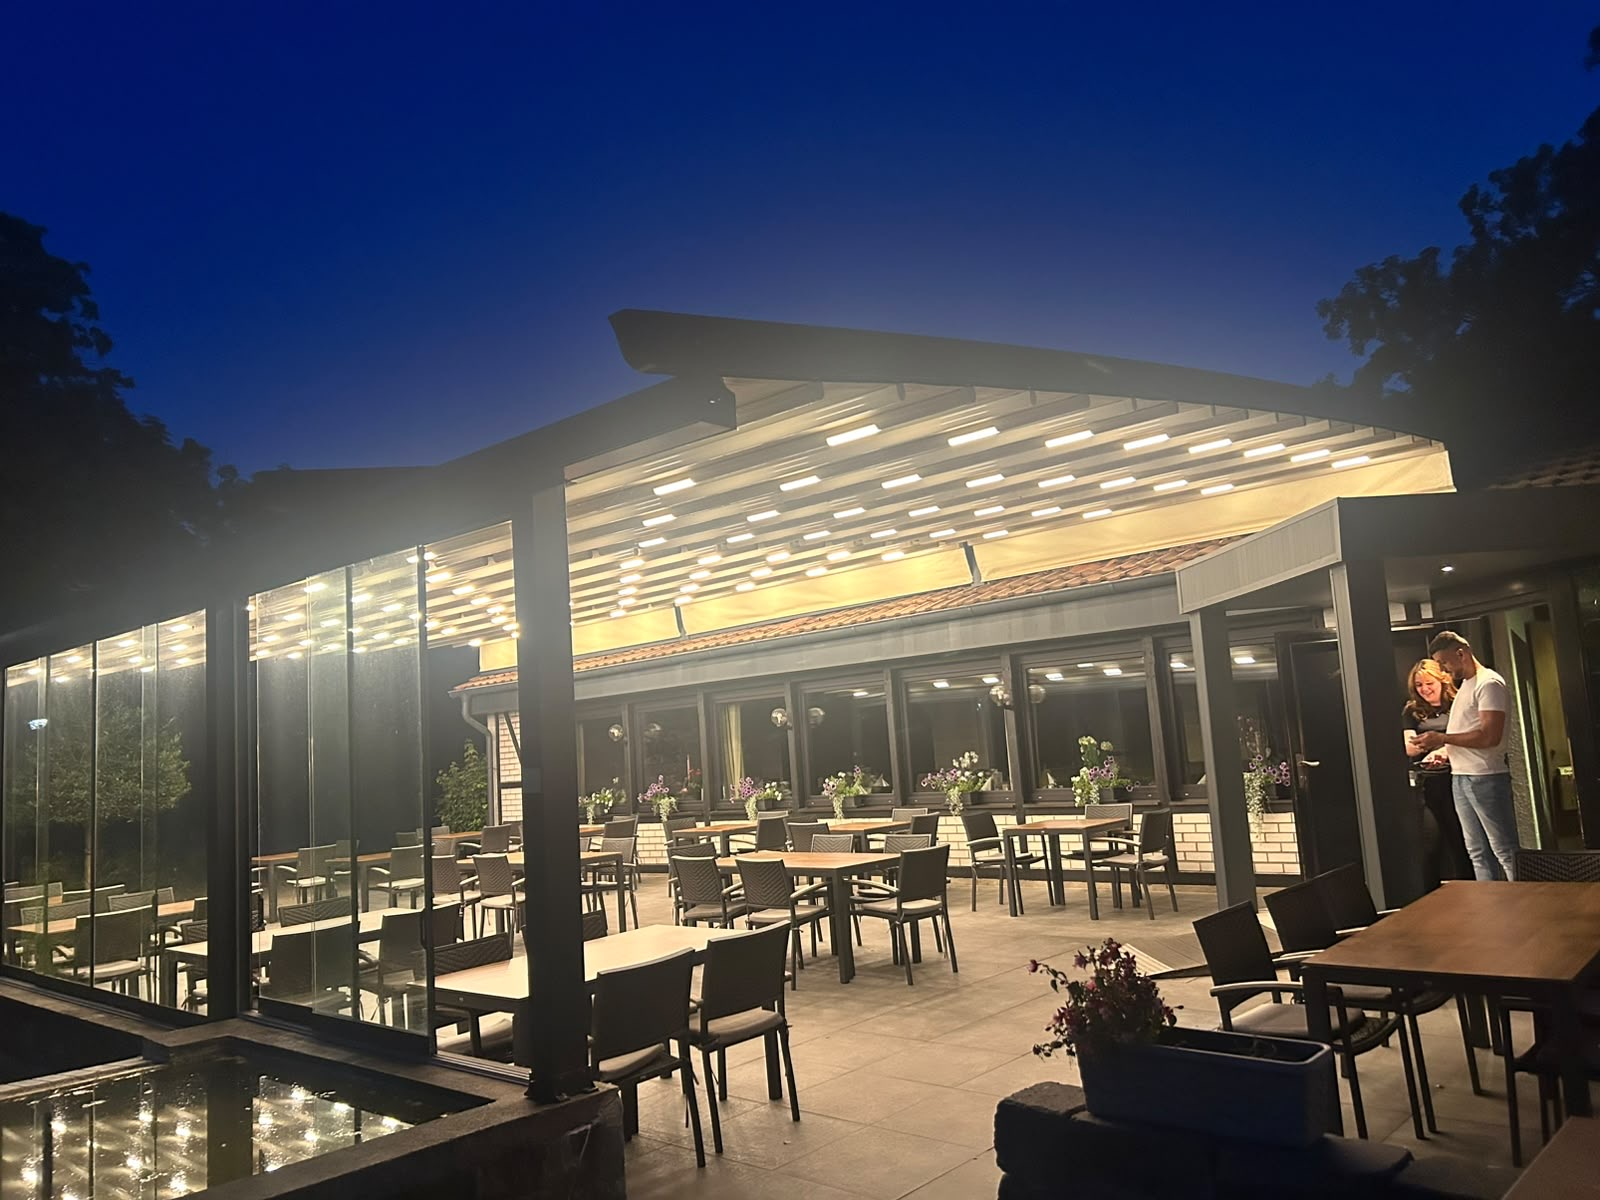
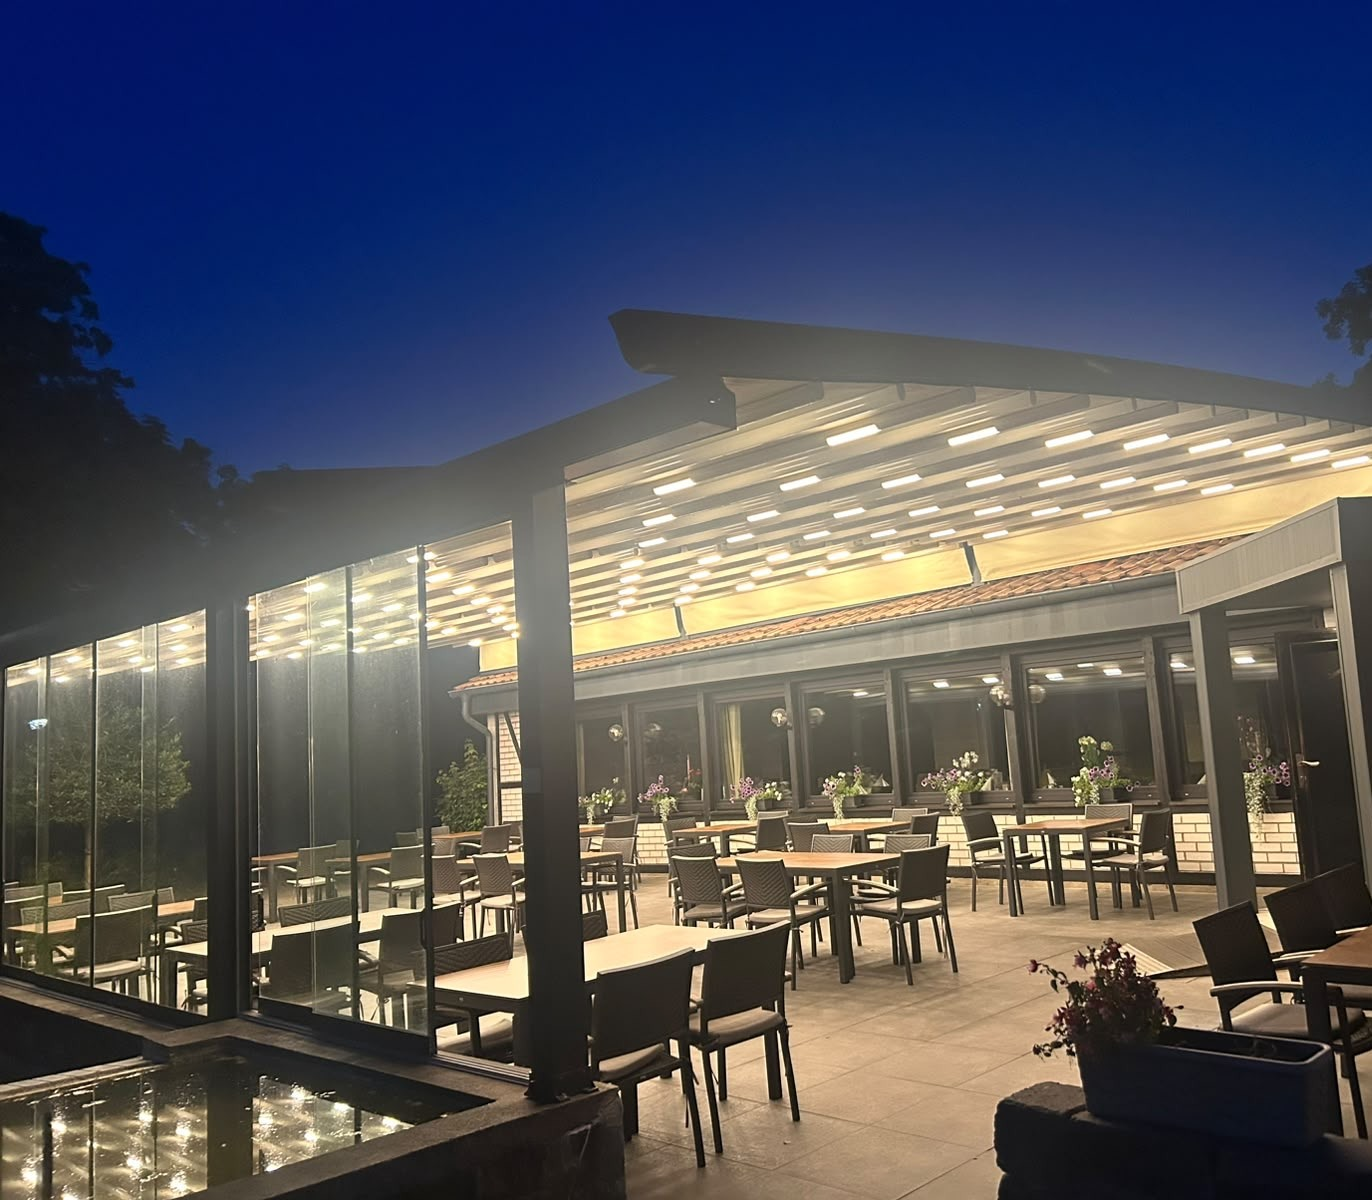
feat: Pitch-Demo landrestaurant-zur-langst online (vorschau/)

diff --git a/vorschau/landrestaurant-zur-langst/index.html b/vorschau/landrestaurant-zur-langst/index.html
@@ -686,7 +686,7 @@ section[id]{scroll-margin-top:5rem}
 <section class="aussicht" id="terrasse">
   <div class="aussicht-buehne">
     <div class="aussicht-bild">
-      <img src="bilder/terrasse-abend.jpg" width="1600" height="1200" loading="lazy"
+      <img src="bilder/terrasse-abend.jpg" width="1372" height="1200" loading="lazy"
            alt="Die überdachte Terrasse am Abend in voller Breite, warm beleuchtet, mit Blick auf den Teich">
     </div>
     <div class="aussicht-text">
@@ -748,7 +748,7 @@ section[id]{scroll-margin-top:5rem}
 <!-- ===================== SALATBUFFET ===================== -->
 <section class="abschnitt buffet">
   <div class="buffet-bild">
-    <img src="bilder/salatbuffet.jpg" width="1200" height="400" loading="lazy"
+    <img src="bilder/salatbuffet.jpg" width="1200" height="900" loading="lazy"
          alt="Das Salatbuffet mit Schüsseln voller Zutaten und Dressings">
   </div>
   <div class="buffet-text">
